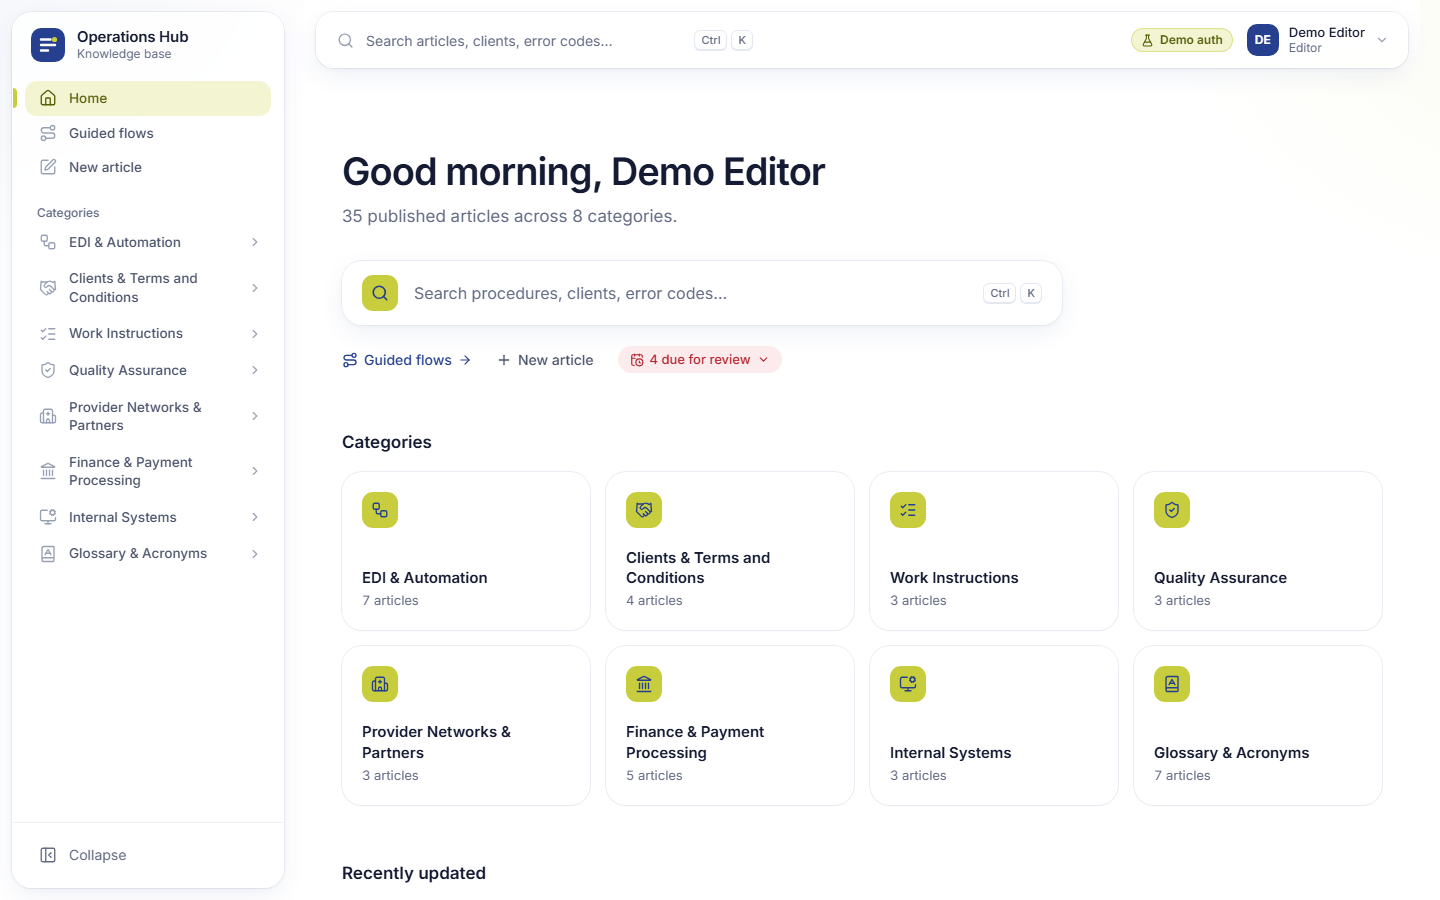
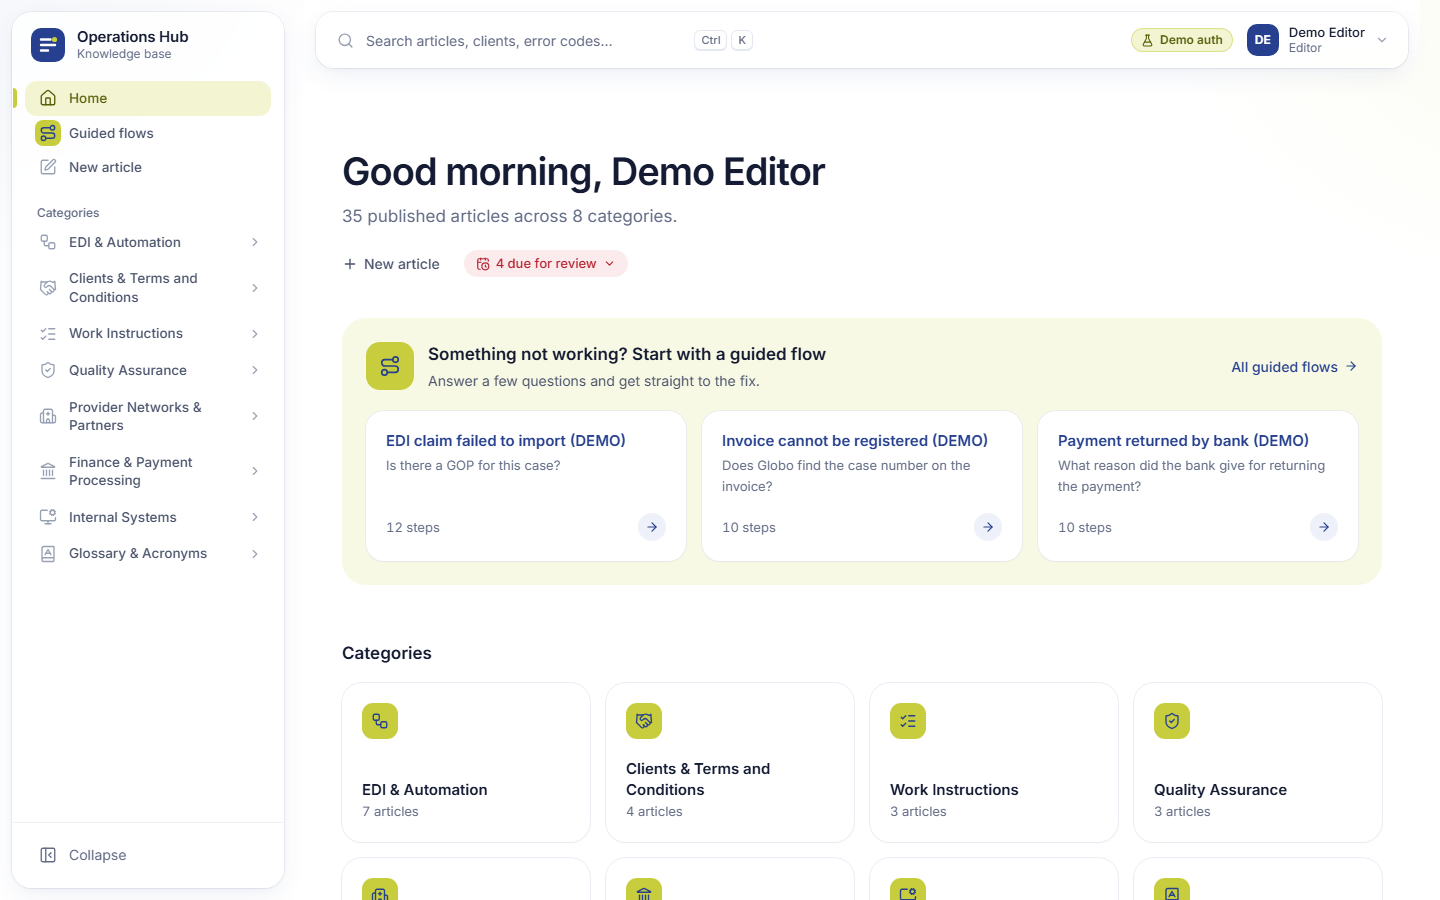
feat(web): featured guided flows on home; drop the home search bar
- Remove the hero search; the top bar search and Ctrl/Cmd+K remain the only search.
- New "Something not working? Start with a guided flow" band under the greeting:
  up to 3 published flows (by title) as cards linking to /flows/<slug>, lime wash
  and icon well, "All guided flows" link; hidden when none, compact retry on error.
- Category grid 1/2/4 (rows up to xl, tiles at xl): no 3/3/2 orphan at 1024.
- Sidebar "Guided flows" icon in a lime well; topbar user name no longer wraps.
- e2e flow search uses the top bar button; 02-home screenshot retaken.

diff --git a/apps/web/src/pages/Home.tsx b/apps/web/src/pages/Home.tsx
@@ -3,10 +3,9 @@ import { Link } from 'react-router';
 import { useQuery } from '@tanstack/react-query';
 import * as Menu from '@radix-ui/react-dropdown-menu';
 import clsx from 'clsx';
-import { ArrowRight, CalendarClock, ChevronDown, Plus, Route, Search } from 'lucide-react';
-import { api, countIn, useArticleCounts, useCategories, useRecentArticles, useSession, type ReviewDue } from '../api/client';
-import { useSearch, isMac } from '../features/search/SearchDialog';
-import { IconTile, Kbd, Skeleton, TEMPLATE_ICON, categoryIcon } from '../components/ui/primitives';
+import { ArrowRight, CalendarClock, ChevronDown, Plus, Route } from 'lucide-react';
+import { api, countIn, useArticleCounts, useCategories, useFlows, useRecentArticles, useSession, type ReviewDue } from '../api/client';
+import { IconTile, Skeleton, TEMPLATE_ICON, categoryIcon } from '../components/ui/primitives';
 import { fmtDate } from '../lib/text';
 import { ErrorState } from '../components/ui/ErrorState';
 
@@ -19,7 +18,6 @@ export function Home() {
   const cats = useCategories();
   const counts = useArticleCounts();
   const recentQ = useRecentArticles(12);
-  const { setOpen } = useSearch();
   const isEditor = me.role !== 'viewer';
 
   const publishedTotal = (counts.data ?? []).filter((c) => c.status === 'published').reduce((n, c) => n + c.n, 0);
@@ -35,40 +33,34 @@ export function Home() {
         <p className="mt-2 text-[16px] text-neutral-500 sm:text-[17px]">
           {counts.isPending ? 'Loading the knowledge base…' : counts.isError ? 'The article list is unavailable right now.' : `${publishedTotal} published ${publishedTotal === 1 ? 'article' : 'articles'} across ${tops.length} categories.`}
         </p>
-        <button type="button" onClick={() => setOpen(true)}
-          className="group mt-8 flex h-16 w-full max-w-[720px] items-center gap-4 rounded-[20px] bg-white px-5 text-left shadow-md ring-1 ring-neutral-200/80 transition-[box-shadow,transform] duration-300 ease-out hover:-translate-y-px hover:shadow-lg hover:ring-primary/20 motion-reduce:hover:translate-y-0">
-          <span aria-hidden className="flex h-9 w-9 shrink-0 items-center justify-center rounded-[11px] bg-accent text-primary"><Search size={18} strokeWidth={2.2} /></span>
-          <span className="min-w-0 flex-1 truncate text-[16px] text-ink-muted">Search procedures, clients, error codes…</span>
-          <span className="hidden gap-1 sm:flex" aria-hidden><Kbd>{isMac ? '⌘' : 'Ctrl'}</Kbd><Kbd>K</Kbd></span>
-        </button>
-        <div className="mt-5 flex flex-wrap items-center gap-x-6 gap-y-2 text-[14px]">
-          <Link to="/flows" className={clsx(quiet, 'group text-primary hover:bg-primary-soft')}>
-            <Route size={16} aria-hidden /> Guided flows
-            <ArrowRight size={14} aria-hidden className="transition-transform group-hover:translate-x-0.5" />
-          </Link>
-          {isEditor && <Link to="/edit/new" className={clsx(quiet, 'text-neutral-600 hover:bg-neutral-100 hover:text-neutral-900')}><Plus size={16} aria-hidden /> New article</Link>}
-          {isEditor && <ReviewBadge />}
-        </div>
+        {isEditor && (
+          <div className="mt-5 flex flex-wrap items-center gap-x-6 gap-y-2 text-[14px]">
+            <Link to="/edit/new" className={clsx(quiet, 'text-neutral-600 hover:bg-neutral-100 hover:text-neutral-900')}><Plus size={16} aria-hidden /> New article</Link>
+            <ReviewBadge />
+          </div>
+        )}
       </section>
 
+      <FeaturedFlows />
+
       {(cats.isError || counts.isError || recentQ.isError) ? (
-        <div className="panel mt-12">
+        <div className="panel mt-14">
           <ErrorState title="Couldn’t load articles" onRetry={() => { cats.refetch(); counts.refetch(); recentQ.refetch(); }} retrying={cats.isFetching || counts.isFetching || recentQ.isFetching} />
         </div>
       ) : (<>
-      <nav aria-labelledby="h-cats" className="mt-14 animate-rise [animation-delay:60ms]">
+      <nav aria-labelledby="h-cats" className="mt-14 animate-rise [animation-delay:120ms]">
         <h2 id="h-cats" className="text-[17px] font-semibold text-neutral-900">Categories</h2>
-        <ul className="mt-4 grid gap-3 sm:grid-cols-2 sm:gap-4 lg:grid-cols-3 xl:grid-cols-4">
-          {(cats.isPending || counts.isPending) ? Array.from({ length: 8 }, (_, i) => <li key={i}><Skeleton className="h-[72px] rounded-[20px] sm:h-[124px]" /></li>)
+        <ul className="mt-4 grid gap-3 sm:grid-cols-2 sm:gap-4 xl:grid-cols-4">
+          {(cats.isPending || counts.isPending) ? Array.from({ length: 8 }, (_, i) => <li key={i}><Skeleton className="h-[72px] rounded-[20px] xl:h-[124px]" /></li>)
             : tops.map((c) => {
               const n = count(c.id);
               return (
                 <li key={c.id}>
-                  {/* a row on phones, a tile from sm up */}
+                  {/* a row up to xl (1 or 2 columns), a tile in the 4-column grid */}
                   <Link to={`/category/${c.slug}`} aria-label={`${c.name}, ${articles(n)}`}
-                    className="group flex h-full items-center gap-4 rounded-[20px] bg-white p-4 shadow-sm ring-1 ring-neutral-200/80 transition-[box-shadow,transform] duration-300 ease-out hover:-translate-y-0.5 hover:shadow-md hover:ring-2 hover:ring-accent motion-reduce:hover:translate-y-0 sm:min-h-[124px] sm:flex-col sm:items-start sm:gap-0 sm:p-5">
+                    className="group flex h-full items-center gap-4 rounded-[20px] bg-white p-4 shadow-sm ring-1 ring-neutral-200/80 transition-[box-shadow,transform] duration-300 ease-out hover:-translate-y-0.5 hover:shadow-md hover:ring-2 hover:ring-accent motion-reduce:hover:translate-y-0 xl:min-h-[124px] xl:flex-col xl:items-start xl:gap-0 xl:p-5">
                     <IconTile icon={categoryIcon(c.name)} tone="accent" />
-                    <span className="min-w-0 sm:mt-auto sm:pt-5">
+                    <span className="min-w-0 xl:mt-auto xl:pt-5">
                       <span className="block text-[15px] font-semibold leading-snug text-neutral-900 transition-colors group-hover:text-primary">{c.name}</span>
                       <span className="mt-0.5 block text-[13px] text-neutral-500 tabular">{articles(n)}</span>
                     </span>
@@ -79,7 +71,7 @@ export function Home() {
         </ul>
       </nav>
 
-      <section aria-labelledby="h-recent" className="mt-14 animate-rise [animation-delay:120ms]">
+      <section aria-labelledby="h-recent" className="mt-14 animate-rise [animation-delay:180ms]">
         <h2 id="h-recent" className="text-[17px] font-semibold text-neutral-900">Recently updated</h2>
         <ul className="panel mt-4 divide-y divide-neutral-100 overflow-hidden">
           {recentQ.isPending && [0, 1, 2].map((i) => <li key={i} className="p-4"><Skeleton className="h-5 w-2/3" /></li>)}
@@ -100,6 +92,53 @@ export function Home() {
       </section>
       </>)}
     </div>
+  );
+}
+
+/** The featured guided flows (first 3 published by title). Hidden when there are none; a failed load offers a retry. */
+function FeaturedFlows() {
+  const flows = useFlows();
+  const shown = [...(flows.data ?? [])].filter((f) => f.status === 'published').sort((a, b) => a.title.localeCompare(b.title)).slice(0, 3);
+  if (flows.isSuccess && !shown.length) return null;
+  return (
+    <section aria-labelledby="h-flows" className="mt-10 animate-rise rounded-[24px] bg-accent-soft/60 p-4 [animation-delay:60ms] sm:p-6">
+      <div className="flex flex-wrap items-center justify-between gap-x-6 gap-y-2">
+        <div className="flex items-center gap-3.5">
+          <span className="hidden sm:block"><IconTile icon={Route} tone="accent" size="lg" /></span>
+          <div>
+            <h2 id="h-flows" className="text-[17px] font-semibold text-neutral-900">Something not working? Start with a guided flow</h2>
+            <p className="mt-0.5 text-[14px] text-neutral-600">Answer a few questions and get straight to the fix.</p>
+          </div>
+        </div>
+        <Link to="/flows" className={clsx(quiet, 'group text-[14px] text-primary hover:bg-white/70')}>
+          All guided flows <ArrowRight size={14} aria-hidden className="transition-transform group-hover:translate-x-0.5 motion-reduce:transition-none" />
+        </Link>
+      </div>
+      {flows.isError ? (
+        <div className="mt-5"><ErrorState compact title="Couldn’t load the guided flows" onRetry={() => flows.refetch()} retrying={flows.isFetching} /></div>
+      ) : (
+        <ul className="mt-4 grid gap-3 sm:mt-5 lg:grid-cols-3 lg:gap-4">
+          {flows.isPending ? [0, 1, 2].map((i) => <li key={i}><Skeleton className="h-[112px] rounded-[18px] lg:h-[148px]" /></li>)
+            : shown.map((f) => (
+              <li key={f.id}>
+                <Link to={`/flows/${f.slug}`}
+                  className="group flex h-full flex-col rounded-[18px] bg-white p-4 shadow-sm ring-1 ring-neutral-200/70 transition-[box-shadow,transform] duration-300 ease-out hover:-translate-y-0.5 hover:shadow-md hover:ring-2 hover:ring-accent motion-reduce:hover:translate-y-0 lg:min-h-[148px] lg:p-5">
+                  <span className="min-w-0">
+                    <span className="block text-[15px] font-semibold leading-snug text-primary">{f.title}</span>
+                    {f.startText && <span className="mt-1 line-clamp-2 block text-[13px] leading-relaxed text-neutral-500">{f.startText}</span>}
+                  </span>
+                  <span className="mt-auto flex w-full items-center gap-3 pt-3 text-[13px] text-ink-muted tabular lg:pt-4">
+                    <span>{f.nodeCount} steps</span>
+                    <span aria-hidden className="ml-auto flex h-7 w-7 items-center justify-center rounded-full bg-primary-soft text-primary transition-colors duration-300 group-hover:bg-primary group-hover:text-white">
+                      <ArrowRight size={14} className="transition-transform group-hover:translate-x-px motion-reduce:transition-none" />
+                    </span>
+                  </span>
+                </Link>
+              </li>
+            ))}
+        </ul>
+      )}
+    </section>
   );
 }
 

diff --git a/apps/web/src/pages/Home.test.tsx b/apps/web/src/pages/Home.test.tsx
@@ -1,5 +1,5 @@
 import { describe, it, expect } from 'vitest';
-import { screen, within } from '@testing-library/react';
+import { screen, waitFor, within } from '@testing-library/react';
 import userEvent from '@testing-library/user-event';
 import { App } from '../App';
 import { renderApp, mockFetch } from '../test/utils';
@@ -21,6 +21,10 @@ const counts = [
 ];
 const articles = Array.from({ length: 8 }, (_, i) => ({ id: `a${i}`, slug: `a${i}`, title: `Recent article ${i}`, type: 'standard', status: 'published',
   categoryId: 't0', categoryPath: 'EDI & Automation', revision: 1, updatedAt: '2026-10-01T10:00:00Z', publishedAt: null, reviewDate: null }));
+const flow = (i: number, title: string, status = 'published') => ({ id: `f${i}`, slug: `flow-${i}`, title, status, updatedAt: '2026-10-01T10:00:00Z',
+  articleId: null, article: null, nodeCount: 4 + i, startText: `Question ${i}` });
+// 4 published + 1 draft (editors receive drafts too); the home shows the first 3 published by title
+const flows = [flow(1, 'Printer offline'), flow(2, 'EDI file rejected'), flow(3, 'Draft flow', 'draft'), flow(4, 'Login fails'), flow(5, 'Zebra scanner')];
 const user = (role: string) => ({ user: { id: 'u1', email: 'x@demo.test', name: 'Demo User', role }, authMode: 'dev', demo: true });
 const routes = (role: string) => ({
   '/api/me': user(role), '/api/categories': { categories }, '/api/articles/counts': { counts },
@@ -43,16 +47,57 @@ describe('Home', () => {
     expect(within(main).queryByText('Troubleshooting Center')).toBeNull();
   });
 
-  it('caps "Recently updated" at 5, links to guided flows, and opens search from the hero', async () => {
+  it('caps "Recently updated" at 5; no search bar in the page body, the top bar search and Ctrl+K still open search', async () => {
     mockFetch(routes('viewer'));
     renderApp(<App />, '/');
     const main = await screen.findByRole('main');
     const recent = await within(main).findByRole('region', { name: 'Recently updated' });
     expect(await within(recent).findByText('Recent article 0')).toBeInTheDocument();
     expect(within(recent).getAllByRole('link')).toHaveLength(5);
-    expect(within(main).getByRole('link', { name: /Guided flows/ })).toHaveAttribute('href', '/flows');
-    await userEvent.click(within(main).getByRole('button', { name: /^Search procedures/ }));
+    expect(within(main).queryByRole('button', { name: /search/i })).toBeNull();
+    await userEvent.click(screen.getByRole('button', { name: /Open search/ }));
     expect(await screen.findByRole('dialog')).toBeInTheDocument();
+    await userEvent.keyboard('{Escape}');
+    await waitFor(() => expect(screen.queryByRole('dialog')).toBeNull());
+    await userEvent.keyboard('{Control>}k{/Control}');
+    expect(await screen.findByRole('dialog')).toBeInTheDocument();
+  });
+
+  it('features up to 3 published guided flows above the categories, with a link to all flows', async () => {
+    mockFetch({ ...routes('editor'), '/api/flows': { flows } });
+    renderApp(<App />, '/');
+    const main = await screen.findByRole('main');
+    const band = await within(main).findByRole('region', { name: /guided flow/i });
+    await within(band).findByText('EDI file rejected');
+    const cards = within(band).getAllByRole('link').filter((l) => l.getAttribute('href') !== '/flows');
+    expect(cards.map((l) => l.getAttribute('href'))).toEqual(['/flows/flow-2', '/flows/flow-4', '/flows/flow-1']);
+    expect(cards[0]).toHaveAccessibleName(/EDI file rejected/);
+    expect(within(band).queryByText('Draft flow')).toBeNull();
+    expect(within(band).getByRole('link', { name: /All guided flows/ })).toHaveAttribute('href', '/flows');
+    const cats = within(main).getByRole('navigation', { name: 'Categories' });
+    expect(band.compareDocumentPosition(cats) & Node.DOCUMENT_POSITION_FOLLOWING).toBeTruthy();
+  });
+
+  it('hides the flows band when there are no published flows', async () => {
+    mockFetch({ ...routes('viewer'), '/api/flows': { flows: [flow(3, 'Draft flow', 'draft')] } });
+    renderApp(<App />, '/');
+    const main = await screen.findByRole('main');
+    await within(main).findByRole('navigation', { name: 'Categories' });
+    await waitFor(() => expect(within(main).queryByRole('region', { name: /guided flow/i })).toBeNull());
+  });
+
+  it('a failed flows load shows a retry that recovers, without hiding the rest of the home', async () => {
+    let fail = true;
+    mockFetch({ ...routes('viewer'), '/api/flows': () => (fail ? { __status: 500 } : { flows }) });
+    renderApp(<App />, '/');
+    const main = await screen.findByRole('main');
+    const alert = await within(main).findByRole('alert');
+    expect(alert).toHaveTextContent(/guided flows/i);
+    expect(within(main).getByRole('navigation', { name: 'Categories' })).toBeInTheDocument();
+    fail = false;
+    await userEvent.click(within(alert).getByRole('button', { name: /Retry/ }));
+    const band = await within(main).findByRole('region', { name: /guided flow/i });
+    expect(await within(band).findByText('Printer offline')).toBeInTheDocument();
   });
 
   it('viewers get no editor actions and no review badge', async () => {

diff --git a/apps/web/src/layout/Sidebar.tsx b/apps/web/src/layout/Sidebar.tsx
@@ -51,7 +51,7 @@ export function Sidebar({ categories: allCategories, activeCategoryId, collapsed
 
         <div className="flex-1 overflow-y-auto overflow-x-hidden px-3 pb-3 pt-1">
           <NavItem to="/" label="Home" icon={<House size={18} strokeWidth={1.8} />} active={pathname === '/'} collapsed={collapsed} />
-          <NavItem to="/flows" label="Guided flows" icon={<Route size={18} strokeWidth={1.8} />} active={pathname.startsWith('/flows')} collapsed={collapsed} />
+          <NavItem to="/flows" label="Guided flows" icon={<Route size={18} strokeWidth={1.8} />} active={pathname.startsWith('/flows')} collapsed={collapsed} featured />
           {canEdit && <NavItem to="/edit/new" label="New article" icon={<SquarePen size={18} strokeWidth={1.8} />} active={pathname === '/edit/new'} collapsed={collapsed} />}
           {isAdmin && <NavItem to="/admin" label="Admin" icon={<ShieldCheck size={18} strokeWidth={1.8} />} active={pathname.startsWith('/admin')} collapsed={collapsed} />}
           <Fade show={!collapsed}>
@@ -119,8 +119,8 @@ function topOf(cats: Category[], id: string): string {
   return c?.id ?? id;
 }
 
-function NavItem({ to, label, icon, active, within, collapsed, trailing }: {
-  to: string; label: string; icon: ReactNode; active: boolean; within?: boolean; collapsed: boolean; trailing?: ReactNode;
+function NavItem({ to, label, icon, active, within, collapsed, trailing, featured }: {
+  to: string; label: string; icon: ReactNode; active: boolean; within?: boolean; collapsed: boolean; trailing?: ReactNode; featured?: boolean;
 }) {
   return (
     <Tip label={label} show={collapsed}>
@@ -129,7 +129,8 @@ function NavItem({ to, label, icon, active, within, collapsed, trailing }: {
         {active && <ActiveMarker className="-left-3" />}
         <Link to={to} aria-current={active ? 'page' : undefined} aria-label={collapsed ? label : undefined}
           className="flex min-w-0 flex-1 items-center gap-3 rounded-[12px] px-[14px] py-2 text-[13.5px] font-medium">
-          <span className={clsx('shrink-0 transition-colors', active ? 'text-accent-ink' : within ? 'text-primary' : 'text-neutral-400 group-hover:text-neutral-600')}>{icon}</span>
+          <span className={clsx('shrink-0 transition-colors', featured ? '-m-1 rounded-[8px] bg-accent p-1 text-primary' // lime well, like the home tiles
+            : active ? 'text-accent-ink' : within ? 'text-primary' : 'text-neutral-400 group-hover:text-neutral-600')}>{icon}</span>
           <Fade show={!collapsed} wrap><span className="block leading-snug">{label}</span></Fade>
         </Link>
         {trailing}

diff --git a/apps/web/src/layout/Topbar.tsx b/apps/web/src/layout/Topbar.tsx
@@ -48,7 +48,7 @@ export function Topbar({ me }: { me: Me }) {
           <Menu.Trigger className="flex items-center gap-2.5 rounded-[12px] py-1.5 pl-1.5 pr-2.5 text-left transition-colors hover:bg-white/90 data-[state=open]:bg-white">
             <span aria-hidden className="flex h-8 w-8 items-center justify-center rounded-[10px] bg-primary text-xs font-semibold text-white">{initials(user.name)}</span>
             <span className="hidden leading-tight md:block">
-              <span className="block text-[13px] font-medium text-neutral-900">{user.name}</span>
+              <span className="block whitespace-nowrap text-[13px] font-medium text-neutral-900">{user.name}</span>
               <span className="block text-xs text-neutral-500">{role.label}</span>
             </span>
             <ChevronDown size={14} className="text-neutral-400" aria-hidden />

diff --git a/e2e/flow.spec.ts b/e2e/flow.spec.ts
@@ -125,7 +125,7 @@ test('editor builds a flow, fixes a validation error, publishes; a viewer runs i
   await expect(page.getByTestId('flow-result')).toContainText('Describe who to contact');
   // global search returns the flow in its own group
   await page.goto('/');
-  await page.getByRole('button', { name: /^Search procedures/ }).click();
+  await page.getByRole('button', { name: /Open search/ }).click(); // the top bar search (the home page has no search bar of its own)
   await page.getByRole('combobox', { name: 'Search' }).fill('printer powered');
   await expect(page.getByRole('group', { name: 'Flows' })).toContainText(title);
 });
